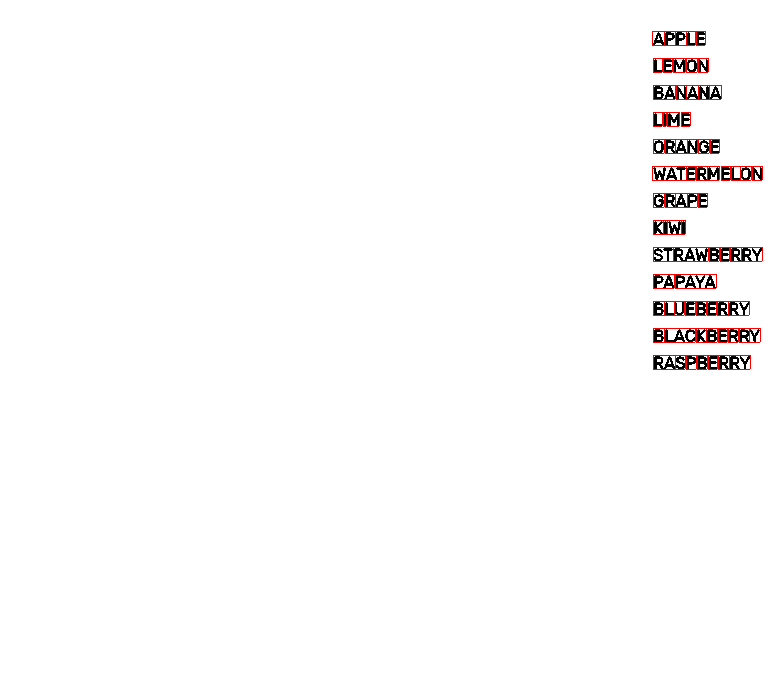
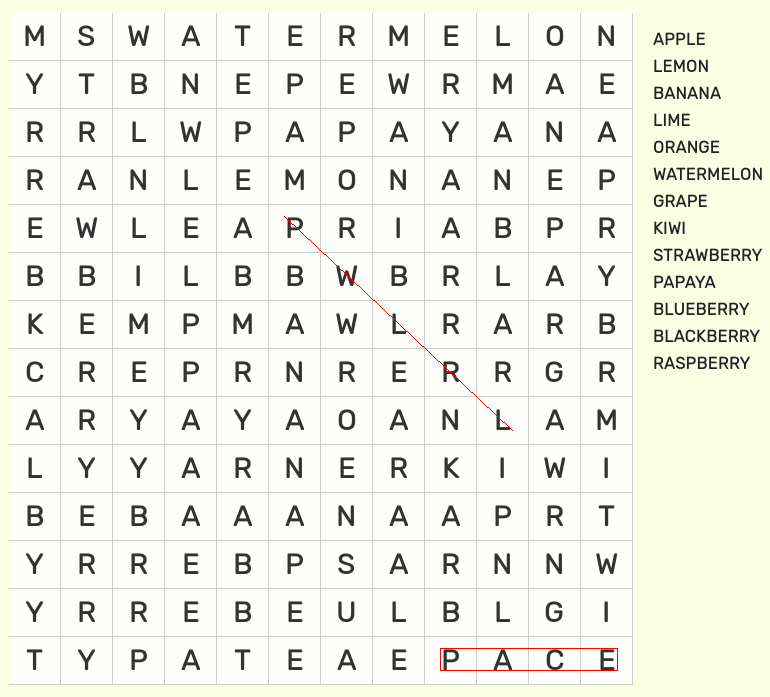
[ADD] Print les resultats sur l'image de base

diff --git a/Detection/LetterDetection.c b/Detection/LetterDetection.c
@@ -154,23 +154,23 @@ void removeLines(SDL_Surface* surface, int x1, int x2, int y1, int y2) {
 
 
 
-void detectLetters(SDL_Surface* surface, char* filepath, int x1, int x2, int y1, int y2) {
+int*** detectLetters(SDL_Surface* surface, char* filepath, int x1, int x2, int y1, int y2, int* lines, int* columns) {
 
     //Nombre de lignes et de colonnes de lettres
-    int lines = getNumLines(surface, x1, x2, &y1, y2),
-        columns = getNumColumns(surface, x1, x2, y1, y2);
+    *lines = getNumLines(surface, x1, x2, &y1, y2);
+    *columns = getNumColumns(surface, x1, x2, y1, y2);
 
-    if (lines + columns < 10) {
+    if (*lines + *columns < 10) {
         removeLines(surface, x1, x2, y1, y2);
-        lines = getNumLines(surface, x1, x2, &y1, y2);
-        columns = getNumColumns(surface, x1, x2, y1, y2);
+        *lines = getNumLines(surface, x1, x2, &y1, y2);
+        *columns = getNumColumns(surface, x1, x2, y1, y2);
     }
 
     //Liste 3 dimensionnelle dont la 3eme represente les corners topleft et bottomright de la lettre : x1, y1 | x2, y2
-    int*** letterCoords = calloc(sizeof(int*), lines);
-    for (int i = 0; i < lines; i++) {
-        letterCoords[i] = calloc(sizeof(int*), columns);
-        for (int j = 0; j < columns; j++) {
+    int*** letterCoords = calloc(sizeof(int*), *lines);
+    for (int i = 0; i < *lines; i++) {
+        letterCoords[i] = calloc(sizeof(int*), *columns);
+        for (int j = 0; j < *columns; j++) {
             letterCoords[i][j] = calloc(sizeof(int), 4);
         }
     }
@@ -187,7 +187,7 @@ void detectLetters(SDL_Surface* surface, char* filepath, int x1, int x2, int y1,
         if (!isWhiteLine(surface, x1 + pixelToleranceX, y, x2 - pixelToleranceX, y)) {
             if (nextTopLine) {
 
-                for (int i = 0; i < columns; i++) {
+                for (int i = 0; i < *columns; i++) {
                     letterCoords[lineCounter][i][1] = y - 1;
                 }
                 nextTopLine = 0;
@@ -195,7 +195,7 @@ void detectLetters(SDL_Surface* surface, char* filepath, int x1, int x2, int y1,
         }
         else if (!nextTopLine) {
 
-            for (int i = 0; i < columns; i++) {
+            for (int i = 0; i < *columns; i++) {
                 letterCoords[lineCounter][i][3] = y;
             }
             nextTopLine = 1;
@@ -214,7 +214,7 @@ void detectLetters(SDL_Surface* surface, char* filepath, int x1, int x2, int y1,
         if (!isWhiteLine(surface, x, y1 + pixelToleranceY, x, y2 - pixelToleranceY)) {
             if (nextLeftColumn) {
 
-                for (int i = 0; i < lines; i++) {
+                for (int i = 0; i < *lines; i++) {
                     letterCoords[i][columnCounter][0] = x - 1;
                 }
                 nextLeftColumn = 0;
@@ -222,7 +222,7 @@ void detectLetters(SDL_Surface* surface, char* filepath, int x1, int x2, int y1,
         }
         else if (!nextLeftColumn) {
 
-            for (int i = 0; i < lines; i++) {
+            for (int i = 0; i < *lines; i++) {
                 letterCoords[i][columnCounter][2] = x;
             }
             nextLeftColumn = 1;
@@ -233,8 +233,8 @@ void detectLetters(SDL_Surface* surface, char* filepath, int x1, int x2, int y1,
     // -----------------------------------------------------------------------
 
 
-    for (int i = 0; i < lines; i++) {
-        for (int j = 0; j < columns; j++) {
+    for (int i = 0; i < *lines; i++) {
+        for (int j = 0; j < *columns; j++) {
 
             int* coords = letterCoords[i][j];
 
@@ -256,34 +256,5 @@ void detectLetters(SDL_Surface* surface, char* filepath, int x1, int x2, int y1,
         }
     }
 
-    for (int i = 0; i < lines; i++) {
-        for (int j = 0; j < columns; j++) {
-            free(letterCoords[i][j]);
-        }
-        free(letterCoords[i]);
-    }
-    free(letterCoords);
-
-
-    // TEST ARNAUD EFFACE PAS STP BEBOU C POUR TRACER SUR L'IMAGE FINAL
-/*
-    char* grid[] = {
-        "MSWATERMELON",
-        "YTBNEPEWRMAE",
-        "RRLWPAPAYANA",
-        "RANLEMONANEP",
-        "EWLEAPRIABPR",
-        "BBILBBWBRLAY",
-        "KEMPMAWLRARB",
-        "CREPRNRERRGR",
-        "ARYAYAOANLAM",
-        "LYYARNERKIWI",
-        "BEBAAANAAPRT",
-        "YRREBPSARNNW",
-        "YRREBEULBLGI",
-        "TYPATEAEPAGE"
-    };
-
-    find_word("/home/corentin/Documents/S3-OCR-Project/Grids/Source/level_1_image_1.png", grid, letterCoords, 14, 12, "pwlrl");
-*/
+    return letterCoords;
 }

diff --git a/Detection/Detection.c b/Detection/Detection.c
@@ -7,12 +7,15 @@
 #include "../Functions.h"
 #include "../Rotate/rotate.h"
 #include "../Interface/Interface.h"
+#include "../Solver/solver.h"
 
 
 static int x1 = 0, yy1 = 0, x2 = 0, y2 = 0;
 static char* path = NULL;
 static SDL_Surface* surface = NULL;
 
+int*** letterCoords = NULL;
+int lines, columns;
 
 void freeSurface() {
     if (surface != NULL) {
@@ -64,7 +67,7 @@ void letterDetection() {
         puts("Cannot detect letters, grid was not correctly detected before.");
         return;
     }
-    detectLetters(surface, path, x1, x2, yy1, y2);
+    letterCoords = detectLetters(surface, path, x1, x2, yy1, y2, &lines, &columns);
     saveSurface();
 }
 
@@ -80,6 +83,48 @@ void wordDetection() {
 
     detectWords(surface, path);
     saveSurface();
+}
+
+void print_result() {
+    if (letterCoords == NULL || x1 == x2 || yy1 == y2) {
+        puts("Cannot print the result the previous steps were not performed.");
+        return;
+    }
+
+    char* grid[] = {
+        "MSWATERMELON",
+        "YTBNEPEWRMAE",
+        "RRLWPAPAYANA",
+        "RANLEMONANEP",
+        "EWLEAPRIABPR",
+        "BBILBBWBRLAY",
+        "KEMPMAWLRARB",
+        "CREPRNRERRGR",
+        "ARYAYAOANLAM",
+        "LYYARNERKIWI",
+        "BEBAAANAAPRT",
+        "YRREBPSARNNW",
+        "YRREBEULBLGI",
+        "TYPATEAEPACE"
+    };
+
+    char* source_path = getSourcePath();
+
+    if (source_path == NULL)
+        return;
+
+    find_word(&source_path, grid, letterCoords, 14, 12, "pwlrl");
+    find_word(&source_path, grid, letterCoords, 14, 12, "pace");
+
+    create_detection_window(path);
+
+    for (int i = 0; i < lines; i++) {
+        for (int j = 0; j < columns; j++) {
+            free(letterCoords[i][j]);
+        }
+        free(letterCoords[i]);
+    }
+    free(letterCoords);
 }
 
 

diff --git a/Solver/solver.c b/Solver/solver.c
@@ -6,7 +6,9 @@
 #include <SDL2/SDL.h>
 #include <SDL2/SDL_image.h>
 
-#define MARGIN 20
+#include "../Interface/Interface.h"
+
+#define MARGIN 0
 
 char** read_file(char* filepath, int* lines, int* columns) { //Reads from a file and copies it to a variable
     FILE* file = fopen(filepath, "r"); //Read file
@@ -83,7 +85,7 @@ void draw_rect(SDL_Surface* image, int x0, int y0, int x1, int y1, Uint32 color)
     draw_line(image, x0, y1, x0, y0, color);
 }
 
-int find_word(char* filepath, char** grid, int*** coordinates, int lines, int columns, char* word) {
+int find_word(char** filepath, char** grid, int*** coordinates, int lines, int columns, char* word) {
     int directions[8][2] = {
         {1, 0},   // Right
         {0, 1},   // Down
@@ -95,7 +97,7 @@ int find_word(char* filepath, char** grid, int*** coordinates, int lines, int co
         {1, -1}   // Diagonal top right
     };
 
-    SDL_Surface* image = IMG_Load(filepath);
+    SDL_Surface* image = IMG_Load(*filepath);
     if (!image) {
         printf("Error loading image: %s\n", IMG_GetError());
         return 0;
@@ -129,7 +131,10 @@ int find_word(char* filepath, char** grid, int*** coordinates, int lines, int co
                             coordinates[y1][x1][3],
                             red_color);
 
-                        IMG_SavePNG(image, "/home/corentin/Documents/S3-OCR-Project/Grids/Modified/prout.png");
+                        char* save_path = getDestPath(*filepath);
+
+                        IMG_SavePNG(image, save_path);
+                        *filepath = save_path;
                         SDL_FreeSurface(image);
                         return 1;
                     }

diff --git a/Interface/FileSetup.c b/Interface/FileSetup.c
@@ -6,11 +6,18 @@
 #include "Interface.h"
 #include "../Pretreatment/pretreatment.h"
 
+char* source_path = NULL;
 
 //Creer un nouveau path dans le directory /Modified pour pas changer le fichier originel
 char* getDestPath(const char* sourcepath) {
 
     if (sourcepath == NULL) return NULL;
+
+    if (strstr(sourcepath, "/Modified") != NULL)
+        return strdup(sourcepath);
+
+    source_path = malloc(strlen(sourcepath) + 1);
+    strcpy(source_path, sourcepath);
 
     char* res = NULL;
     const char* dir = "/Modified";
@@ -44,6 +51,14 @@ char* getDestPath(const char* sourcepath) {
     memcpy(res + startIndex + strlen(dir) + 1 + fileNameLength + 1, fileNameWithExt, strlen(fileNameWithExt));
     
     return res;
+}
+
+char* getSourcePath() {
+    if (source_path == NULL) {
+        puts("Cannot access source image.");
+        return NULL;
+    }
+    return source_path;
 }
 
 

diff --git a/Interface/Interface.c b/Interface/Interface.c
@@ -217,6 +217,10 @@ void create_detection_window(char* filepath) {
     g_signal_connect(button_words, "clicked", G_CALLBACK(wordDetection), NULL);
     gtk_box_pack_start(GTK_BOX(hbox), button_words, TRUE, TRUE, 1);
 
+    GtkWidget *button_result = gtk_button_new_with_label("Print final result");
+    g_signal_connect(button_result, "clicked", G_CALLBACK(print_result), NULL);
+    gtk_box_pack_start(GTK_BOX(hbox), button_result, TRUE, TRUE, 1);
+
     GtkWidget *button_back = gtk_button_new_with_label("Back");
     g_signal_connect(button_back, "clicked", G_CALLBACK(close_detection_window), window);
     gtk_box_pack_start(GTK_BOX(hbox), button_back, FALSE, FALSE, 1);

diff --git a/Detection/Detection.h b/Detection/Detection.h
@@ -26,7 +26,7 @@ void putPixel(SDL_Surface *surface, int x, int y);
 int* detectGrid(SDL_Surface* surface);
 void detectWords(SDL_Surface* surface, char* filepath);
 int** detectLines(SDL_Surface* surface, int* size, int* threshold);
-void detectLetters(SDL_Surface* surface, char* filepath, int x1, int x2, int y1, int y2);
+int*** detectLetters(SDL_Surface* surface, char* filepath, int x1, int x2, int y1, int y2, int* lines, int* columns);
 
 void saveSurface();
 void freeSurface();
@@ -36,5 +36,6 @@ void detection(char* filepath);
 void gridDetection();
 void letterDetection();
 void wordDetection();
+void print_result();
 
 #endif

diff --git a/Solver/solver.h b/Solver/solver.h
@@ -1,6 +1,6 @@
 #ifndef SOLVER_H_
 #define SOLVER_H_
 
-int find_word(char* filepath, char** grid, int*** coordinates, int lines, int columns, char* word);
+int find_word(char** filepath, char** grid, int*** coordinates, int lines, int columns, char* word);
 
 #endif

diff --git a/Interface/Interface.h b/Interface/Interface.h
@@ -14,6 +14,7 @@ void create_detection_window(char *filepath);
 void select_file(GtkWidget *button, gpointer user_data);
 
 char* getDestPath(const char* sourcepath);
+char* getSourcePath();
 int cloneFile(const char *src_path, const char *dest_path);
 
 #endif
